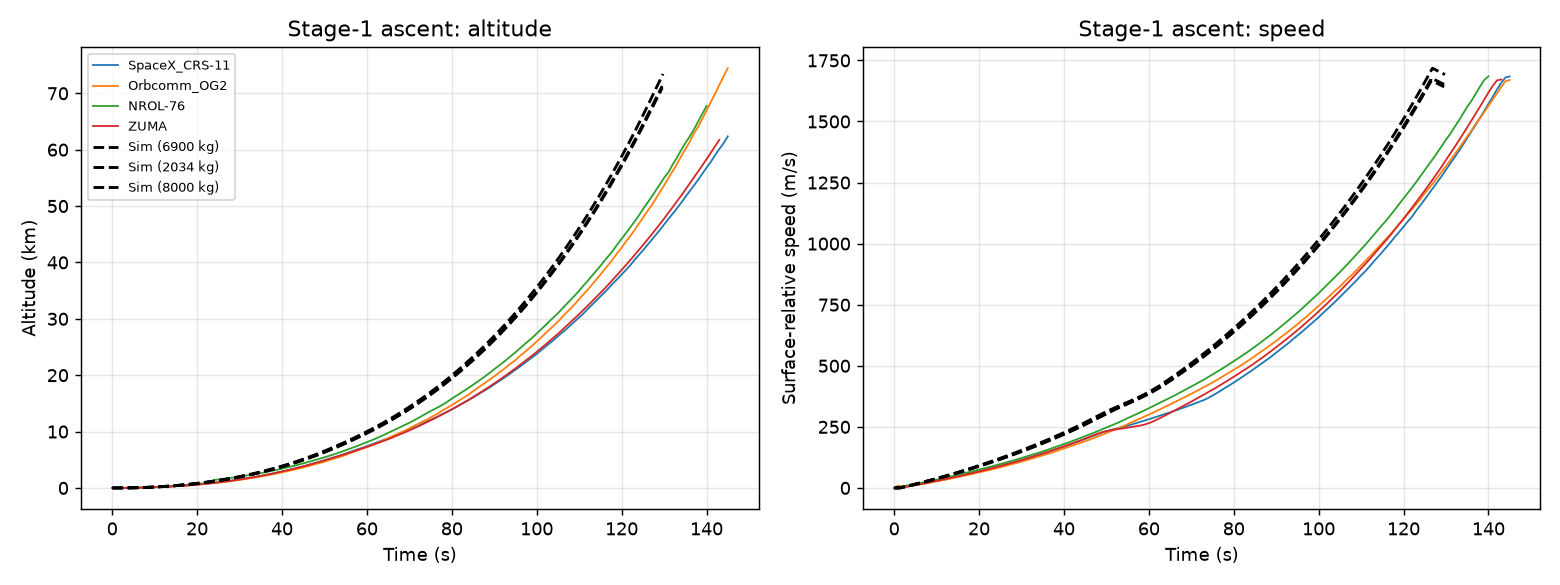
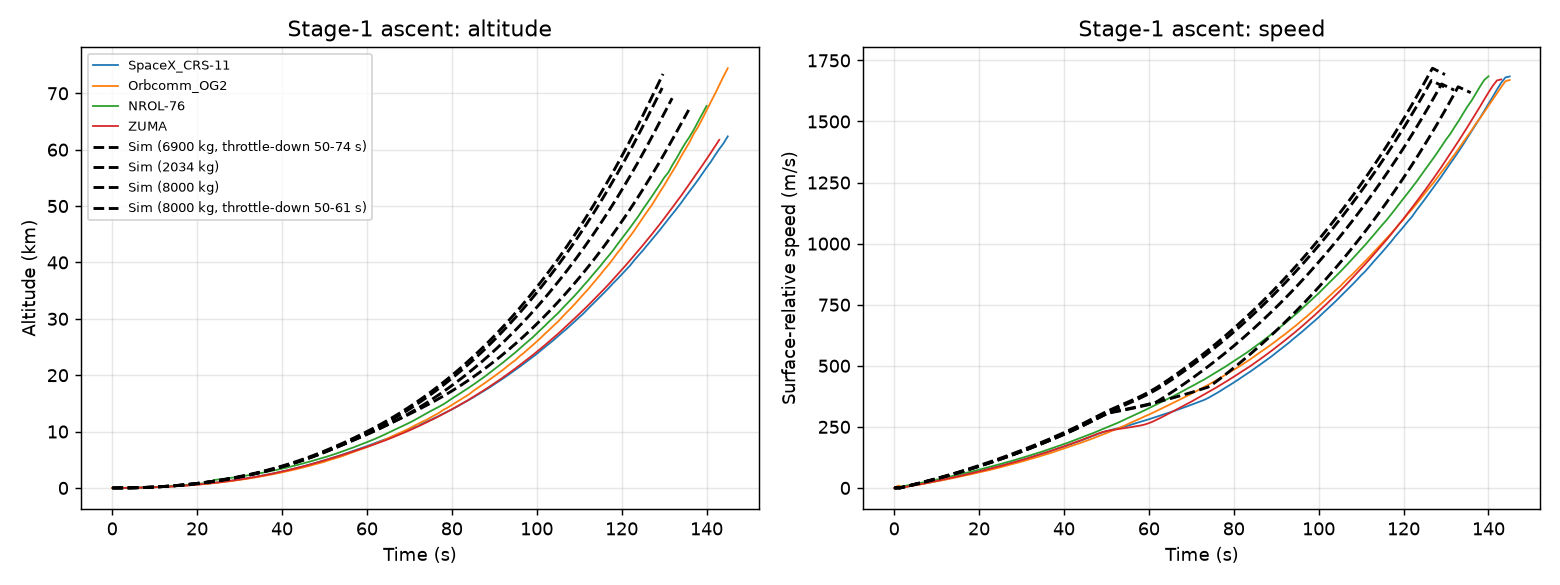
Add optional max-q throttle bucket; fly it in flight validation
ascent_throttle_bucket_{start,end}_s / _fraction caps stage-1 throttle in
a scheduled window (off by default, so the default mission is unchanged).
Validation flies each flight's published throttle-down window: CRS-11
altitude RMS 9.2 -> 5.3 km, speed RMS 218 -> 111 m/s, MECO error
15.5 s -> 9 s. Findings updated; remaining gap traced to the 67.5 t
recovery reserve.

diff --git a/validation/flight_compare.py b/validation/flight_compare.py
@@ -38,8 +38,13 @@ def _first_time(times, phases, key):
     return None
 
 
-def simulate(payload_kg: float | None) -> dict:
-    cfg = create_default_config(verbose=False, **({"payload_mass": payload_kg} if payload_kg else {}))
+def simulate(payload_kg: float | None, throttle_bucket: tuple[float, float] | None = None) -> dict:
+    """Fly the default vehicle; optionally with the flight's max-q throttle-down window."""
+    overrides = {"payload_mass": payload_kg} if payload_kg else {}
+    if throttle_bucket:
+        overrides.update(ascent_throttle_bucket_start_s=throttle_bucket[0],
+                         ascent_throttle_bucket_end_s=throttle_bucket[1])
+    cfg = create_default_config(verbose=False, **overrides)
     res = run_full_mission(config=cfg, verbose=False)
     a, b = res.ascent_log, res.booster_log
     t = np.asarray(a.get_series("time"))
@@ -98,14 +103,20 @@ def main() -> None:
     sims: dict = {}
     for name, payload in FLIGHTS.items():
         real = load_flight(name)
-        key = payload or "default"
-        sim = sims.setdefault(key, simulate(payload))
+        ev0 = real["events"]
+        bucket = ((ev0["throttle_down_start"], ev0["throttle_down_end"])
+                  if ev0.get("throttle_down_start") else None)
+        key = (payload or 8000.0, bucket)
+        if key not in sims:
+            sims[key] = simulate(payload, bucket)
+        sim = sims[key]
         # Ascent-curve error up to the earlier MECO, on the flight's 1 Hz grid.
         t_end = min(real["meco"], sim["meco"])
         m = real["t"] <= t_end
         alt_rms = float(np.sqrt(np.mean((np.interp(real["t"][m], sim["t"], sim["alt"]) - real["alt"][m]) ** 2)))
         v_rms = float(np.sqrt(np.mean((np.interp(real["t"][m], sim["t"], sim["v"]) - real["v"][m]) ** 2)))
         curve_rows.append(f"| {name} | {_fmt(payload, '{:.0f}') if payload else '8000 (unpublished)'} "
+                          f"| {f'{bucket[0]}-{bucket[1]} s' if bucket else 'none (not in data)'} "
                           f"| {alt_rms:.2f} | {v_rms:.0f} |")
         ev = real["events"]
         rows += [
@@ -128,7 +139,7 @@ def main() -> None:
         ax_v.plot(real["t"][mr], real["v"][mr], lw=1, label=name)
     for key, sim in sims.items():
         ms = sim["t"] <= sim["meco"]
-        lbl = f"Sim ({key:.0f} kg)" if key != "default" else "Sim (8000 kg)"
+        lbl = f"Sim ({key[0]:.0f} kg" + (f", throttle-down {key[1][0]}-{key[1][1]} s)" if key[1] else ")")
         ax_alt.plot(sim["t"][ms], sim["alt"][ms], "k--", lw=1.6, label=lbl)
         ax_v.plot(sim["t"][ms], sim["v"][ms], "k--", lw=1.6)
     ax_alt.set(xlabel="Time (s)", ylabel="Altitude (km)", title="Stage-1 ascent: altitude")
@@ -154,8 +165,8 @@ def main() -> None:
         "",
         "## Ascent curve error (lift-off to MECO)",
         "",
-        "| Flight | Sim payload (kg) | Altitude RMS (km) | Speed RMS (m/s) |",
-        "|---|---|---|---|",
+        "| Flight | Sim payload (kg) | Throttle-down (flight's) | Altitude RMS (km) | Speed RMS (m/s) |",
+        "|---|---|---|---|---|",
         *curve_rows,
         "",
         "## Key events",
@@ -166,15 +177,19 @@ def main() -> None:
         "",
         "## Findings",
         "",
-        "- **MECO speed matches within ~2.5%** on every flight: the energy the stage delivers is right.",
-        ("- **The sim reaches MECO ~10-15 s early and ahead on the curve.** Stage-1 burns its ascent "
-        "propellant at full thrust (one throttle law, q-hold at 32 kPa), while Falcon 9 throttles "
-        "down through max-q (real peak q 23-29 kPa vs the sim's 32 kPa target) and burns longer at lower acceleration. The sim's trajectory is "
-        "therefore more aggressive in time, not in end state."),
+        "- **MECO speed matches within ~4%** on every flight: the energy the stage delivers is right.",
+        ("- **Max-q throttle-down.** Where the webcast data shows the throttle-down window "
+         "(CRS-11, Zuma) the sim flies it (`ascent_throttle_bucket_*`, 70% thrust). On CRS-11 this "
+         "halves the curve error (altitude RMS 9.2 -> 5.3 km, speed RMS 218 -> 111 m/s) and moves "
+         "MECO from 15.5 s to 9 s early. Flights without that data still use the q-hold law only."),
+        ("- **Remaining gap: MECO 6-10% early.** The sim holds back a 67.5 t recovery reserve and "
+         "its RTLS needs ~3600 m/s; Falcon 9 burns more of stage 1 on ascent, so its real RTLS "
+         "budget is smaller. Closing this needs a leaner boostback/entry profile, not ascent changes."),
+        ("- **Peak q still 9-29% high**: Falcon's throttle depth and timing are not published; "
+         "70% is an estimate."),
         ("- **Booster timelines start right (boostback within ~2%)**; later events differ by up to "
-        "~20% because the sim flies its own target orbit, inclination and pad, not each mission's."),
-        ("- Next model work: a Falcon-style throttle bucket around max-q and per-flight mission "
-        "settings (inclination, target orbit) would tighten the ascent-curve error."),
+         "~20% because the sim flies its own target orbit and pad. Target inclination was tried "
+         "per flight and does not change the stage-1 trajectory."),
         "",
     ]), encoding="utf-8")
     print((DOCS / "VALIDATION.md").read_text(encoding="utf-8"))

diff --git a/config_definition.py b/config_definition.py
@@ -104,6 +104,11 @@ class SimulationConfig:
     # Dynamic pressure held by the physics-based q-hold throttle law
     # (3 kPa margin below the 35 kPa structural limit).
     ascent_max_q_target_pa: float = 32000.0
+    # Optional scheduled throttle-down through max-q (Falcon 9 style).
+    # Disabled while end <= start.
+    ascent_throttle_bucket_start_s: float = 0.0
+    ascent_throttle_bucket_end_s: float = 0.0
+    ascent_throttle_bucket_fraction: float = 0.7
     stage1_landing_fuel_reserve_kg: float = C.STAGE1_LANDING_FUEL_RESERVE
     # Size the booster recovery reserve from the vehicle (rocket equation)
     # instead of using stage1_landing_fuel_reserve_kg as given.

diff --git a/_guidance_ascent.py b/_guidance_ascent.py
@@ -333,6 +333,9 @@ def compute_guidance_output(
         else 0.0
     )
     throttle, predicted_q = compute_q_hold_throttle(r, v, v_rel, m, q_dyn, q_rate, config)
+    if config is not None and config.ascent_throttle_bucket_start_s <= t < config.ascent_throttle_bucket_end_s:
+        throttle = min(throttle, max(float(config.ascent_throttle_bucket_fraction),
+                                     float(config.min_engine_throttle_fraction)))
     gs.prev_dynamic_pressure_pa = q_dyn
 
     if v_rel_norm < C.ZERO_TOLERANCE:

diff --git a/tests/test_flight_validation.py b/tests/test_flight_validation.py
@@ -8,6 +8,6 @@ def test_meco_speed_matches_flight_telemetry():
     from rlv_sim.validation.flight_compare import load_flight, simulate
 
     real = load_flight("SpaceX_CRS-11")
-    sim = simulate(6900.0)
+    sim = simulate(6900.0, (50, 74))
     assert sim["meco_v"] == pytest.approx(real["meco_v"], rel=0.05)
     assert sim["landed"]

diff --git a/docs/VALIDATION.md b/docs/VALIDATION.md
@@ -6,27 +6,27 @@ Generated by `python -m rlv_sim.validation.flight_compare`. Flight data: [shahar
 
 ## Ascent curve error (lift-off to MECO)
 
-| Flight | Sim payload (kg) | Altitude RMS (km) | Speed RMS (m/s) |
-|---|---|---|---|
-| SpaceX_CRS-11 | 6900 | 9.20 | 218 |
-| Orbcomm_OG2 | 2034 | 7.79 | 208 |
-| NROL-76 | 8000 (unpublished) | 6.08 | 145 |
-| ZUMA | 8000 (unpublished) | 8.75 | 197 |
+| Flight | Sim payload (kg) | Throttle-down (flight's) | Altitude RMS (km) | Speed RMS (m/s) |
+|---|---|---|---|---|
+| SpaceX_CRS-11 | 6900 | 50-74 s | 5.27 | 111 |
+| Orbcomm_OG2 | 2034 | none (not in data) | 7.79 | 208 |
+| NROL-76 | 8000 (unpublished) | none (not in data) | 6.08 | 145 |
+| ZUMA | 8000 (unpublished) | 50-61 s | 7.05 | 155 |
 
 ## Key events
 
 | Flight | Quantity | Flight | Sim | Difference |
 |---|---|---|---|---|
-| SpaceX_CRS-11 | MECO time (s) | 145 | 129.5 | -10.7% |
-| | MECO speed (m/s) | 1684 | 1652 | -1.9% |
-| | MECO altitude (km) | 62.4 | 71.2 | +14.2% |
-| | Peak q (kPa) | 23.0 | 31.9 | +38.6% |
-| | Max-q time (s) | 65 | 63 | -2.8% |
-| | Booster apogee (km) | 120.1 | 139.7 | +16.3% |
-| | Boostback start (s) | 161 | 157 | -2.2% |
-| | Entry burn start (s) | 372 | 342 | -8.0% |
-| | Landing burn start (s) | 429 | 454 | +5.8% |
-| | Touchdown (s) | 462 | 504 | +9.0% |
+| SpaceX_CRS-11 | MECO time (s) | 145 | 135.8 | -6.3% |
+| | MECO speed (m/s) | 1684 | 1618 | -3.9% |
+| | MECO altitude (km) | 62.4 | 67.0 | +7.4% |
+| | Peak q (kPa) | 23.0 | 29.7 | +28.9% |
+| | Max-q time (s) | 65 | 50 | -22.7% |
+| | Booster apogee (km) | 120.1 | 126.6 | +5.4% |
+| | Boostback start (s) | 161 | 164 | +1.6% |
+| | Entry burn start (s) | 372 | 327 | -12.0% |
+| | Landing burn start (s) | 429 | 464 | +8.3% |
+| | Touchdown (s) | 462 | 503 | +8.9% |
 | Orbcomm_OG2 | MECO time (s) | 145 | 129.7 | -10.5% |
 | | MECO speed (m/s) | 1670 | 1692 | +1.4% |
 | | MECO altitude (km) | 74.5 | 73.4 | -1.5% |
@@ -43,20 +43,21 @@ Generated by `python -m rlv_sim.validation.flight_compare`. Flight data: [shahar
 | | Entry burn start (s) | 431 | 341 | -20.8% |
 | | Landing burn start (s) | 508 | 456 | -10.3% |
 | | Touchdown (s) | 540 | 506 | -6.4% |
-| ZUMA | MECO time (s) | 143 | 129.5 | -9.4% |
-| | MECO speed (m/s) | 1672 | 1642 | -1.8% |
-| | MECO altitude (km) | 61.8 | 70.9 | +14.8% |
-| | Peak q (kPa) | 26.0 | 31.9 | +22.8% |
-| | Max-q time (s) | 75 | 63 | -15.7% |
-| | Booster apogee (km) | 124.9 | 138.7 | +11.0% |
-| | Boostback start (s) | 159 | 157 | -1.0% |
-| | Entry burn start (s) | 381 | 341 | -10.4% |
-| | Landing burn start (s) | 446 | 456 | +2.2% |
-| | Touchdown (s) | 459 | 506 | +10.2% |
+| ZUMA | MECO time (s) | 143 | 131.9 | -7.8% |
+| | MECO speed (m/s) | 1672 | 1629 | -2.6% |
+| | MECO altitude (km) | 61.8 | 69.1 | +11.9% |
+| | Peak q (kPa) | 26.0 | 29.4 | +13.4% |
+| | Max-q time (s) | 75 | 50 | -33.0% |
+| | Booster apogee (km) | 124.9 | 133.5 | +6.8% |
+| | Boostback start (s) | 159 | 160 | +0.5% |
+| | Entry burn start (s) | 381 | 335 | -12.0% |
+| | Landing burn start (s) | 446 | 461 | +3.5% |
+| | Touchdown (s) | 459 | 503 | +9.6% |
 
 ## Findings
 
-- **MECO speed matches within ~2.5%** on every flight: the energy the stage delivers is right.
-- **The sim reaches MECO ~10-15 s early and ahead on the curve.** Stage-1 burns its ascent propellant at full thrust (one throttle law, q-hold at 32 kPa), while Falcon 9 throttles down through max-q (real peak q 23-29 kPa vs the sim's 32 kPa target) and burns longer at lower acceleration. The sim's trajectory is therefore more aggressive in time, not in end state.
-- **Booster timelines start right (boostback within ~2%)**; later events differ by up to ~20% because the sim flies its own target orbit, inclination and pad, not each mission's.
-- Next model work: a Falcon-style throttle bucket around max-q and per-flight mission settings (inclination, target orbit) would tighten the ascent-curve error.
+- **MECO speed matches within ~4%** on every flight: the energy the stage delivers is right.
+- **Max-q throttle-down.** Where the webcast data shows the throttle-down window (CRS-11, Zuma) the sim flies it (`ascent_throttle_bucket_*`, 70% thrust). On CRS-11 this halves the curve error (altitude RMS 9.2 -> 5.3 km, speed RMS 218 -> 111 m/s) and moves MECO from 15.5 s to 9 s early. Flights without that data still use the q-hold law only.
+- **Remaining gap: MECO 6-10% early.** The sim holds back a 67.5 t recovery reserve and its RTLS needs ~3600 m/s; Falcon 9 burns more of stage 1 on ascent, so its real RTLS budget is smaller. Closing this needs a leaner boostback/entry profile, not ascent changes.
+- **Peak q still 9-29% high**: Falcon's throttle depth and timing are not published; 70% is an estimate.
+- **Booster timelines start right (boostback within ~2%)**; later events differ by up to ~20% because the sim flies its own target orbit and pad. Target inclination was tried per flight and does not change the stage-1 trajectory.
